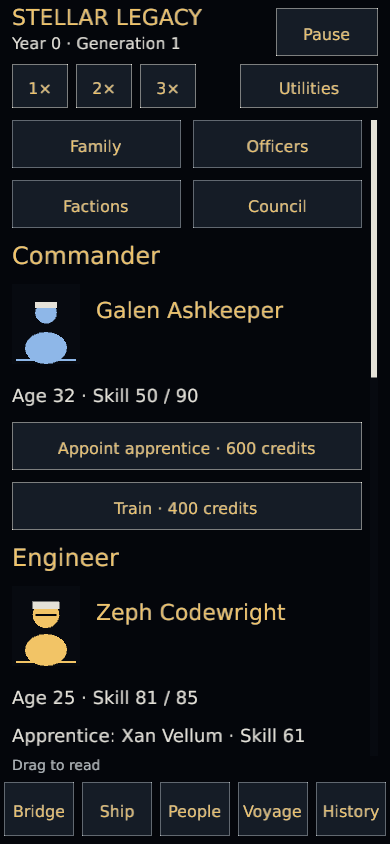
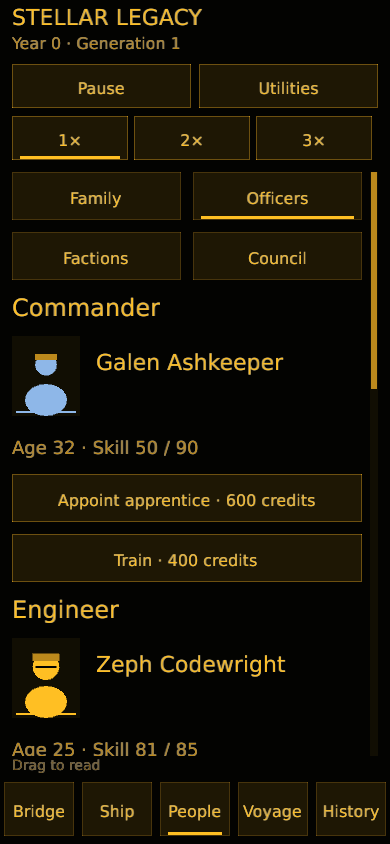
The Custodian marks each station on the bridge (responsive navigation feedback)
Phone and scaled desktop navigation left the current destination and section unmarked. Add persistent selection underlines, highlight phone speed choices, and provide visible press feedback. Put Drydock and Market in one section row to keep their relationship clear.

The normal publisher passed Windows and WebGL builds, Preview deployment, and exact-package render smoke checks. Reviewed refreshed phone and 125-percent desktop captures.

diff --git a/src/ui/mobile/form.rs b/src/ui/mobile/form.rs
@@ -8,7 +8,7 @@ enum Item<A> {
     Section(String, String),
     Portrait(String),
     Sections(Vec<(String, String)>),
-    Actions(Vec<(String, A)>),
+    Actions(Vec<(String, A)>, usize),
     Ship,
     Art(Texture2D),
     Vessel(ship_schematic::ShipSchematic),
@@ -51,12 +51,13 @@ impl<A> Form<A> {
                 .collect(),
         ));
     }
-    pub fn actions(&mut self, items: Vec<(&str, A)>) {
+    pub fn actions(&mut self, items: Vec<(&str, A)>, selected: usize) {
         self.items.push(Item::Actions(
             items
                 .into_iter()
                 .map(|(label, a)| (label.to_owned(), a))
                 .collect(),
+            selected,
         ));
     }
     pub fn portrait(&mut self, name: &str) {
@@ -133,7 +134,7 @@ impl<A> Form<A> {
                         + 12.0
                 }
                 Item::Sections(items) => items.len().div_ceil(2) as f32 * 60.0,
-                Item::Actions(_) => 60.0,
+                Item::Actions(..) => 60.0,
                 Item::Portrait(_) => 100.0,
                 Item::Ship | Item::Vessel(_) => 180.0_f32.min(view.h),
                 Item::Art(_) => ((width * 9.0 / 16.0).min(260.0) + 12.0).min(view.h),
@@ -210,10 +211,12 @@ impl<A> Form<A> {
                             );
                             if nav_button(r, &label, tap) {
                                 *state.mobile_section.borrow_mut() = section;
+                            } else if state.mobile_section.borrow().as_str() == section {
+                                selection_marker(r);
                             }
                         }
                     }
-                    Item::Actions(items) => {
+                    Item::Actions(items, selected) => {
                         let count = items.len() as f32;
                         let width = (rect.w - 12.0 * (count - 1.0)) / count;
                         for (i, (label, action)) in items.into_iter().enumerate() {
@@ -221,6 +224,9 @@ impl<A> Form<A> {
                                 Rect::new(rect.x + i as f32 * (width + 12.0), rect.y, width, 48.0);
                             if nav_button(r, &label, tap) {
                                 actions.push(action);
+                            }
+                            if i == selected {
+                                selection_marker(r);
                             }
                         }
                     }

diff --git a/src/ui/mobile.rs b/src/ui/mobile.rs
@@ -57,18 +57,17 @@ pub fn draw(ctx: &GameplayCtx<'_>) -> Vec<UiAction> {
         actions.push(UiAction::TogglePause);
     }
     for (index, speed) in GameSpeed::ALL.into_iter().skip(1).enumerate() {
-        if term_button(
-            Rect::new(
-                12.0 + index as f32 * ((width - 24.0) / 3.0),
-                116.0,
-                (width - 24.0) / 3.0 - 6.0,
-                44.0,
-            ),
-            &format!("{}×", index + 1),
-            true,
-            pointer,
-        ) {
+        let rect = Rect::new(
+            12.0 + index as f32 * ((width - 24.0) / 3.0),
+            116.0,
+            (width - 24.0) / 3.0 - 6.0,
+            44.0,
+        );
+        if term_button(rect, &format!("{}×", index + 1), true, pointer) {
             actions.push(UiAction::SetSpeed(speed));
+        }
+        if ctx.sim.speed == speed {
+            selection_marker(rect);
         }
     }
     if term_button(
@@ -118,6 +117,11 @@ pub fn draw(ctx: &GameplayCtx<'_>) -> Vec<UiAction> {
                 actions.push(UiAction::SelectScreen(
                     destination.home(ctx.sim.contract.is_none()),
                 ));
+            }
+            if destination == navigation::Destination::of(ctx.screen)
+                && !ctx.presentation.utilities.get()
+            {
+                selection_marker(rect);
             }
         }
     }
@@ -310,7 +314,14 @@ pub(crate) fn bridge_details(ctx: &GameplayCtx<'_>, form: &mut Form) {
 fn nav_button(rect: Rect, label: &str, pointer: Pointer) -> bool {
     macroquad_toolkit::ui::note_neighbour(rect);
     macroquad_toolkit::ui::note_target(label, rect);
-    draw_rectangle(rect.x, rect.y, rect.w, rect.h, term::surface());
+    let fill = if pointer.pressing(rect) {
+        term::surface_active()
+    } else if pointer.hovering_over(rect) {
+        term::surface_hover()
+    } else {
+        term::surface()
+    };
+    draw_rectangle(rect.x, rect.y, rect.w, rect.h, fill);
     draw_rectangle_lines(rect.x, rect.y, rect.w, rect.h, 1.0, term::faint());
     draw_text_centered_in_box_ex(
         label,

diff --git a/src/ui/responsive.rs b/src/ui/responsive.rs
@@ -18,7 +18,7 @@ pub fn draw(ctx: &GameplayCtx<'_>) -> Vec<UiAction> {
         30.0,
         TextStyle::new(18.0, term::primary()),
     );
-    time_controls::draw_at(&ctx.sim, pointer, &mut actions, 12.0, 42.0);
+    time_controls::draw_at(ctx.sim, pointer, &mut actions, 12.0, 42.0);
     if term_button(
         Rect::new(width - 132.0, 42.0, 120.0, 44.0),
         "Utilities",
@@ -34,17 +34,18 @@ pub fn draw(ctx: &GameplayCtx<'_>) -> Vec<UiAction> {
         || ctx.sim.debrief.is_some();
     let step = (width - 24.0) / 5.0;
     for (i, destination) in navigation::Destination::ALL.into_iter().enumerate() {
-        if term_button(
-            Rect::new(12.0 + i as f32 * step, 94.0, step - 6.0, 44.0),
-            destination.label(),
-            !blocked,
-            pointer,
-        ) {
+        let rect = Rect::new(12.0 + i as f32 * step, 94.0, step - 6.0, 44.0);
+        if term_button(rect, destination.label(), !blocked, pointer) {
             ctx.presentation.mobile_section.borrow_mut().clear();
             ctx.presentation.utilities.set(false);
             actions.push(UiAction::SelectScreen(
                 destination.home(ctx.sim.contract.is_none()),
             ));
+        }
+        if destination == navigation::Destination::of(ctx.screen)
+            && !ctx.presentation.utilities.get()
+        {
+            selection_marker(rect);
         }
     }
     let panel = Rect::new(12.0, 146.0, width - 24.0, logical_height() - 158.0);

diff --git a/src/ui/mobile/ship.rs b/src/ui/mobile/ship.rs
@@ -4,11 +4,18 @@ use crate::state::sim::{ProjectAmounts, ProjectStatus};
 mod systems;
 
 pub(super) fn build(ctx: &GameplayCtx<'_>, f: &mut Form, section: &str) {
-    f.actions(vec![
-        ("Loadout", UiAction::SelectScreen(Screen::ShipBuilder)),
-        ("Systems", UiAction::SelectScreen(Screen::Subsystems)),
-        ("Agenda", UiAction::SelectScreen(Screen::Agenda)),
-    ]);
+    f.actions(
+        vec![
+            ("Loadout", UiAction::SelectScreen(Screen::ShipBuilder)),
+            ("Systems", UiAction::SelectScreen(Screen::Subsystems)),
+            ("Agenda", UiAction::SelectScreen(Screen::Agenda)),
+        ],
+        match ctx.screen {
+            Screen::Subsystems => 1,
+            Screen::Agenda => 2,
+            _ => 0,
+        },
+    );
     if ctx.screen == Screen::Agenda {
         agenda(ctx, f, section);
         return;

diff --git a/src/ui/mobile/voyage.rs b/src/ui/mobile/voyage.rs
@@ -4,8 +4,13 @@ use crate::simulation::{contract, market};
 pub(super) fn build(ctx: &GameplayCtx<'_>, f: &mut Form, section: &str) {
     let sim = ctx.sim;
     if sim.contract.is_none() {
-        f.action("Drydock", true, UiAction::SelectScreen(Screen::Drydock));
-        f.action("Market", true, UiAction::SelectScreen(Screen::Market));
+        f.actions(
+            vec![
+                ("Drydock", UiAction::SelectScreen(Screen::Drydock)),
+                ("Market", UiAction::SelectScreen(Screen::Market)),
+            ],
+            usize::from(ctx.screen == Screen::Market),
+        );
     }
     if ctx.screen == Screen::Market {
         trade(ctx, f);

diff --git a/src/ui/widgets.rs b/src/ui/widgets.rs
@@ -3,6 +3,18 @@
 
 use super::*;
 
+/// Persistent selection uses a shape as well as color, so touch navigation
+/// remains legible without a hover state or a particular color scheme.
+pub fn selection_marker(rect: Rect) {
+    draw_rectangle(
+        rect.x + 8.0,
+        rect.bottom() - 4.0,
+        rect.w - 16.0,
+        3.0,
+        term::primary(),
+    );
+}
+
 pub fn term_panel(rect: Rect, title: Option<&str>) {
     let style = SurfaceStyle::new(term::panel())
         .with_border(1.0, term::border())

diff --git a/gdd.md b/gdd.md
@@ -265,6 +265,9 @@ Ship contains Loadout, Systems and Agenda; People separates Family, Officers,
 Factions and Council. Voyage offers Drydock/Market in port and Contract underway.
 Utilities contains Save game, Help, Display & sound and Return to menu.
 Pause/Resume and speed controls remain reachable above blocking decisions.
+Responsive and phone navigation underline the active destination and section;
+phone speed controls underline the current running speed. Touch presses visibly
+light navigation targets, and Drydock/Market share a compact section row.
 Council choices select a response before explicit Commit; full consequences scroll.
 
 Amber is the default color scheme, with Green and Slate available. Scanlines and
